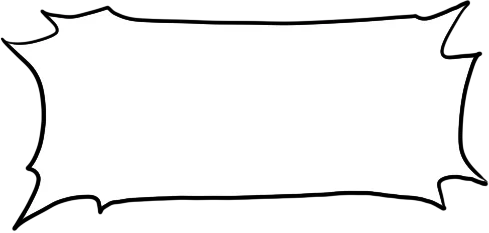
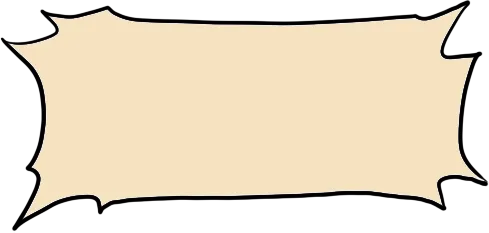
Park the carriage below the passage and relabel the print button
-- Print button reads "Напечатать" with a carriage return icon
-- Sae's visor shows calm instead of interest while gaps are empty
-- Wider side padding on paper in restore and archive pages

diff --git a/src/components/PrintCarriage/printCarriage.module.scss b/src/components/PrintCarriage/printCarriage.module.scss
@@ -8,7 +8,7 @@
   --brass-shadow: #5e4720;
   // Стоянка у чернильницы, пока moveTo не задал точку пропуска
   --x: calc( 100% - 2 * var( --ink-size-side-indent ) - 27px );
-  --y: 6px;
+  --y: calc( 100% + 40px );
 
   position: absolute;
   top: 0;
@@ -20,8 +20,8 @@
 
   &__rail {
     position: absolute;
-    top: -30px;
-    bottom: 0;
+    top: 0;
+    bottom: -40px;
     width: 6px;
     background: linear-gradient( 90deg, var( --brass-shadow ), var( --brass-light ) 40%, var( --brass ) 65%, var( --brass-shadow ));
     border-radius: 3px;
@@ -97,7 +97,7 @@
 
   &__head {
     position: absolute;
-    top: calc( var( --y ) - 42px );
+    top: calc( var( --y ) - 38px );
     left: calc( var( --x ) + var( --ink-size-side-indent ) - 9px );
     width: 18px;
     height: 30px;
@@ -114,7 +114,7 @@
 
   &__inkwell {
     position: absolute;
-    top: -16px;
+    top: calc( 100% + 18px );
     right: calc( var( --ink-size-side-indent ) + 14px );
     width: 26px;
     height: 20px;

diff --git a/src/views/RestorePage/restorePage.vue b/src/views/RestorePage/restorePage.vue
@@ -259,7 +259,12 @@ const onPrint = async () => {
                   type="button"
                   @click="onPrint"
               >
-                Вписать набело
+                <svg width="20" height="20" viewBox="0 0 24 24" fill="none" stroke="currentColor" stroke-width="2" stroke-linecap="round" stroke-linejoin="round" aria-hidden="true">
+                  <path d="M20 5v6a3 3 0 0 1-3 3H6"></path>
+                  <path d="M10 10l-4 4 4 4"></path>
+                </svg>
+
+                Напечатать
 
                 <span v-if="!isReplay" :class="styles.restorePage__price">
                   <ion-icon :icon="waterOutline" />

diff --git a/src/assets/styles/actionButton.module.scss b/src/assets/styles/actionButton.module.scss
@@ -1,11 +1,13 @@
 .actionButton {
+  position: relative;
+  z-index: var( --ink-z-index-layout );
   min-height: 48px;
   padding: 0 var( --ink-size-gap-l );
   font: inherit;
   font-size: 17px;
   color: var( --ink-color-black );
   background: var( --ink-color-theme );
-  border: none;
+  border: 1px solid var( --ink-color-theme );
   border-radius: var( --ink-size-border-radius-s );
 
   &:disabled {

diff --git a/src/components/PaperSheet/paperSheet.module.scss b/src/components/PaperSheet/paperSheet.module.scss
@@ -5,12 +5,12 @@
   border-radius: var( --ink-size-border-radius-s );
 
   &_carriage {
-    margin-top: 30px;
+    margin-bottom: 40px;
   }
 
   &__text {
     margin: 0;
-    padding: var( --ink-size-gap ) calc( var( --ink-size-gap ) + 8px );
+    padding: var( --ink-size-gap ) var( --ink-size-gap-l );
     font-family: var( --ink-font-paper );
     font-size: 19px;
     line-height: 2;

diff --git a/src/components/GapText/gapText.vue b/src/components/GapText/gapText.vue
@@ -100,7 +100,7 @@ const emotion = computed( (): TVisorEmotion => {
     return 'confusion';
   }
 
-  return isFilled.value ? 'smile' : 'interest';
+  return isFilled.value ? 'smile' : 'calm';
 });
 
 watch( () => props.text, () => {

diff --git a/src/views/ArchivePage/archivePage.module.scss b/src/views/ArchivePage/archivePage.module.scss
@@ -13,7 +13,7 @@
 
   &__paper {
     margin: 0;
-    padding: var( --ink-size-gap );
+    padding: var( --ink-size-gap ) var( --ink-size-gap-l );
     font-family: var( --ink-font-paper );
     font-size: 19px;
     line-height: 1.8;

diff --git a/src/components/GapText/gapText.module.scss b/src/components/GapText/gapText.module.scss
@@ -61,7 +61,6 @@
   }
 
   &__cloud {
-    opacity: .6;
     position: relative;
     display: flex;
     align-items: center;
